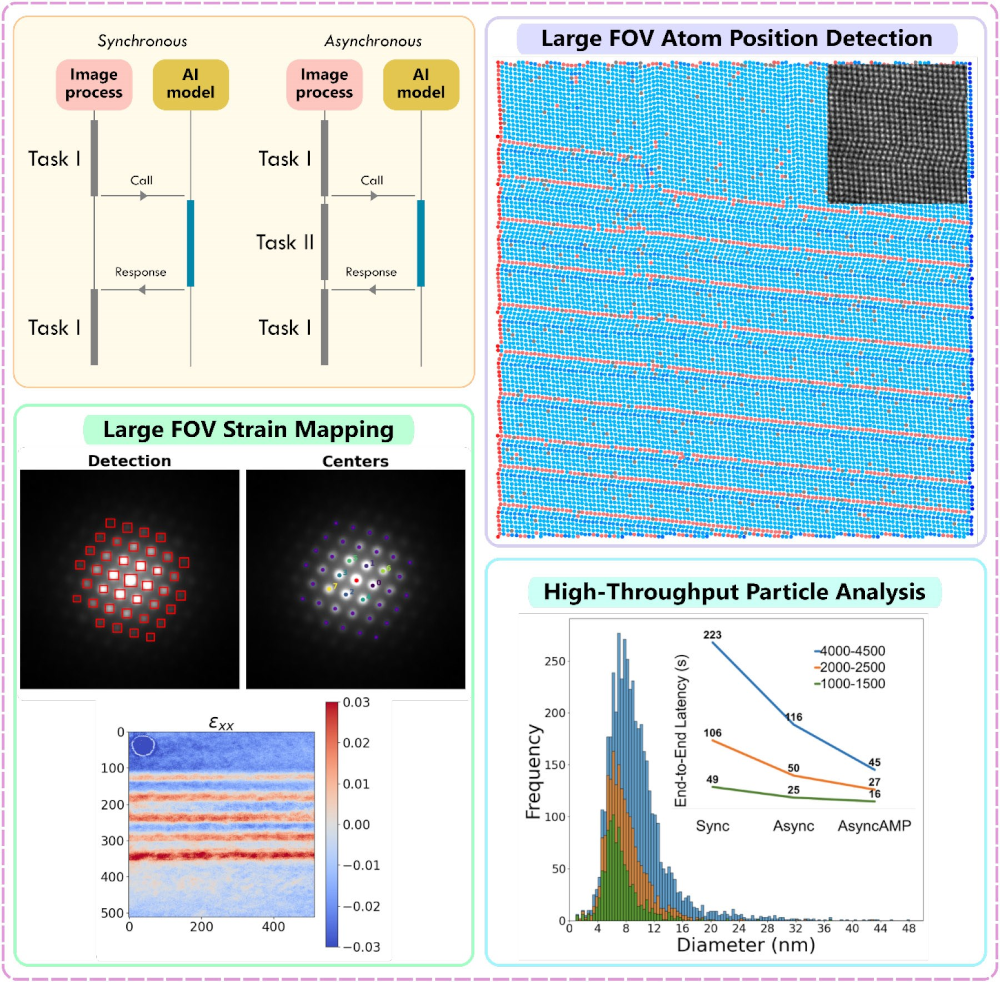
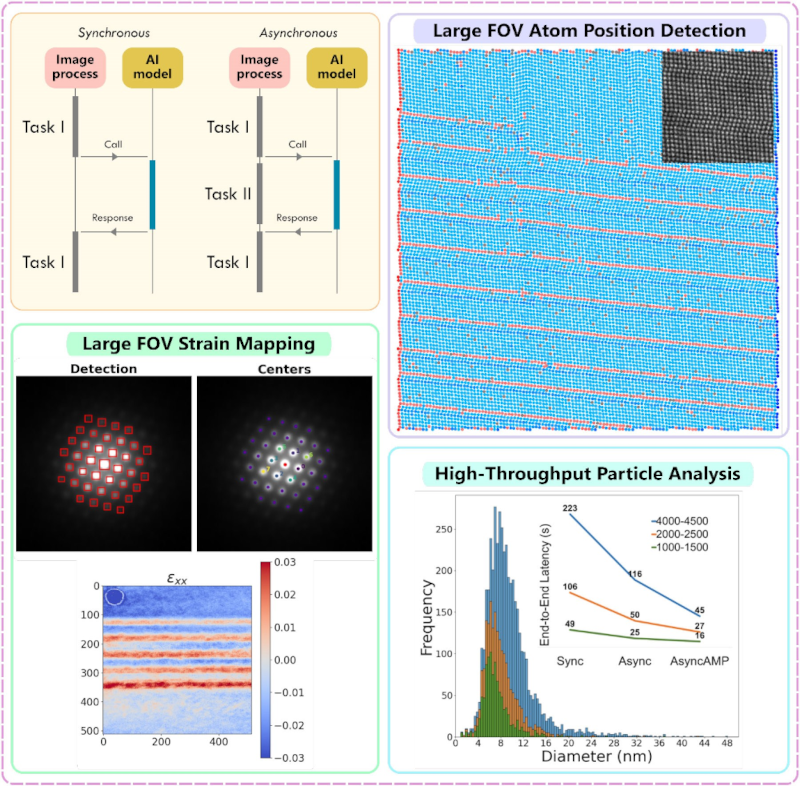
Deploying to gh-pages from @ Streit-C/amd-lab-website@2f073997084b8cdb7f26aceb26ef33633d1df481 🚀

diff --git a/2019/01/07/example-post-1.html b/2019/01/07/example-post-1.html
@@ -63,10 +63,10 @@
   <meta name="author" content="&lt;p&gt;Lorem ipsum dolor sit amet, consectetur adipiscing elit, sed do eiusmod tempor incididunt ut labore et dolore magna aliqua.&lt;/p&gt;
 ">
   <meta property="og:type" content="article">
-  <meta property="og:updated_time" content="2026-05-13T15:18:20+00:00">
+  <meta property="og:updated_time" content="2026-05-13T15:39:54+00:00">
   <meta property="article:published_time" content="2019-01-07T00:00:00+00:00">
-  <meta property="article:modified_time" content="2026-05-13T15:18:20+00:00">
-  <meta name="revised" content="2026-05-13T15:18:20+00:00">
+  <meta property="article:modified_time" content="2026-05-13T15:39:54+00:00">
+  <meta name="revised" content="2026-05-13T15:39:54+00:00">
 
 
 <script type="application/ld+json">
@@ -76,7 +76,7 @@
       "@type": "BlogPosting",
       "author": { "@type": "Person", "name": "Example post 1" },
       "datePublished": "2019-01-07T00:00:00+00:00",
-      "dateModified": "2026-05-13T15:18:20+00:00",
+      "dateModified": "2026-05-13T15:39:54+00:00",
     
     "name": "Example post 1",
     "description": "The Accelerated Materials Discovery Lab is focused on applying automated and high-throughput methodologies to discover and develop novel materials for extreme environments (high mechanical stresses, temperatures, and radiation fluxes). We are located in the Department of Materials Science and Engineering at University of Virginia.",

diff --git a/2021/09/30/example-post-2.html b/2021/09/30/example-post-2.html
@@ -63,10 +63,10 @@
   <meta name="author" content="&lt;p&gt;Lorem ipsum dolor sit amet, consectetur adipiscing elit, sed do eiusmod tempor incididunt ut labore et dolore magna aliqua.&lt;/p&gt;
 ">
   <meta property="og:type" content="article">
-  <meta property="og:updated_time" content="2026-05-13T15:18:20+00:00">
+  <meta property="og:updated_time" content="2026-05-13T15:39:54+00:00">
   <meta property="article:published_time" content="2021-09-30T00:00:00+00:00">
-  <meta property="article:modified_time" content="2026-05-13T15:18:20+00:00">
-  <meta name="revised" content="2026-05-13T15:18:20+00:00">
+  <meta property="article:modified_time" content="2026-05-13T15:39:54+00:00">
+  <meta name="revised" content="2026-05-13T15:39:54+00:00">
 
 
 <script type="application/ld+json">
@@ -76,7 +76,7 @@
       "@type": "BlogPosting",
       "author": { "@type": "Person", "name": "Example post 2" },
       "datePublished": "2021-09-30T00:00:00+00:00",
-      "dateModified": "2026-05-13T15:18:20+00:00",
+      "dateModified": "2026-05-13T15:39:54+00:00",
     
     "name": "Example post 2",
     "description": "The Accelerated Materials Discovery Lab is focused on applying automated and high-throughput methodologies to discover and develop novel materials for extreme environments (high mechanical stresses, temperatures, and radiation fluxes). We are located in the Department of Materials Science and Engineering at University of Virginia.",

diff --git a/2023/02/23/example-post-3.html b/2023/02/23/example-post-3.html
@@ -63,10 +63,10 @@
   <meta name="author" content="&lt;p&gt;Lorem ipsum dolor sit amet, consectetur adipiscing elit, sed do eiusmod tempor incididunt ut labore et dolore magna aliqua.&lt;/p&gt;
 ">
   <meta property="og:type" content="article">
-  <meta property="og:updated_time" content="2026-05-13T15:18:20+00:00">
+  <meta property="og:updated_time" content="2026-05-13T15:39:54+00:00">
   <meta property="article:published_time" content="2023-02-23T00:00:00+00:00">
-  <meta property="article:modified_time" content="2026-05-13T15:18:20+00:00">
-  <meta name="revised" content="2026-05-13T15:18:20+00:00">
+  <meta property="article:modified_time" content="2026-05-13T15:39:54+00:00">
+  <meta name="revised" content="2026-05-13T15:39:54+00:00">
 
 
 <script type="application/ld+json">
@@ -76,7 +76,7 @@
       "@type": "BlogPosting",
       "author": { "@type": "Person", "name": "Example post 3" },
       "datePublished": "2023-02-23T00:00:00+00:00",
-      "dateModified": "2026-05-13T15:18:20+00:00",
+      "dateModified": "2026-05-13T15:39:54+00:00",
     
     "name": "Example post 3",
     "description": "The Accelerated Materials Discovery Lab is focused on applying automated and high-throughput methodologies to discover and develop novel materials for extreme environments (high mechanical stresses, temperatures, and radiation fluxes). We are located in the Department of Materials Science and Engineering at University of Virginia.",